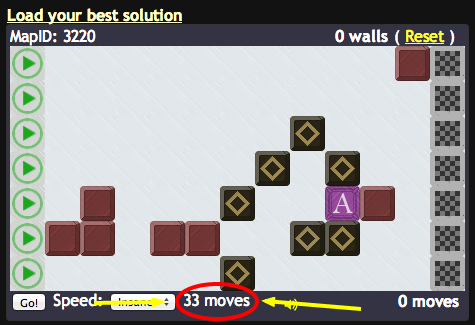
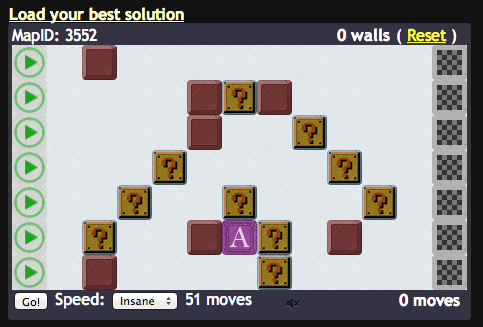
custom block images.  added some default selection

diff --git a/pathery-client-shared.js b/pathery-client-shared.js
@@ -1,3 +1,53 @@
+// CUSTOMIZED BLOCKS
+var user_id;
+var id_to_block_image_map = {
+  'www.pathery.com': {
+    835: 'https://raw.github.com/WuTheFWasThat/midnighttherapy/master/images/blocks/pusheen.png', // joy
+    400: 'https://raw.github.com/WuTheFWasThat/midnighttherapy/master/images/blocks/bwlo.png', // wuthefwasthat
+    271: 'http://downloads.khinsider.com/wallpaper/1280x1024/1058-everquest-002-gywvt.jpg' // yeuo
+  }
+}
+
+function get_custom_block_image() {
+  if ((document.domain in id_to_block_image_map) && (user_id in id_to_block_image_map[document.domain])) {
+    return id_to_block_image_map[document.domain][user_id];
+  }
+  return 'https://raw.github.com/WuTheFWasThat/midnighttherapy/master/images/blocks/mario_block.png'; // wuthefwasthat
+  return null;
+}
+
+var __old_grick_click__ = grid_click;
+var grid_click = function() { 
+  var custom_image = get_custom_block_image();
+  if (custom_image) {wallEmblem = custom_image;}
+  var old_linkEmblem = linkEmblem;
+  if (custom_image) {
+    linkEmblem = function() {return wallEmblem;}
+  }
+  __old_grick_click__.apply(this, arguments);
+  if (custom_image) {linkEmblem = old_linkEmblem;}
+}
+
+$(document).ready(function() {
+  $('#topbarContent a').each(function(x, y) {
+    var link = $(y); 
+    if (link.text() == 'Achievements') {
+      user_id = parseInt(link.attr('href').split('=')[1])
+    }
+  })
+  function update_block_images() {
+    var custom_image = get_custom_block_image();
+    if (custom_image) {
+      $('.playable > div').each(function(x, y) {
+        if (this.cv) {$(this).css('background-image', "url(" + custom_image + ")")};
+      })
+    }
+  }
+  update_block_images();
+});
+
+// END CUSTOMIZED BLOCKS
+
 // TODO:  DO NOT UNCOMMENT THIS LINE
 // $(document).on('click', function() {$('.map.playable .o').css('background-image', 'url(http://24.media.tumblr.com/tumblr_lg3ynmrMvc1qcpyl1o1_400.gif)')})
 
@@ -521,7 +571,9 @@ loadScripts([
   
   var hotkeys_text = 
     // TODO:
-    //'x: place'     + '<br/>' +
+    //'x: place'     + '<br/>' +var 
+    //'w: Place wall'     + '<br/>' +var 
+    //'e: Erase wall'     + '<br/>' +var 
     '1-5: Switch maps' + '<br/>' + 
     's:   Save'           + '<br/>' +
     'l:   Load'           + '<br/>' +
@@ -536,6 +588,7 @@ loadScripts([
     showStats(map_num);
     refresh_all();
   }
+  // 'x' : use mouseover, mouseout events
 
   var hotkey_handler = {
     '1' : function(e) {switch_map(1)},
@@ -553,7 +606,7 @@ loadScripts([
       clearwalls(exports.mapid); 
     },
     'S' : function(e) {
-      save_current_solution();
+      exports.save_current_solution();
     },
     'L' : function(e) {
       var old_solution = exports.get_current_solution();
@@ -596,7 +649,7 @@ loadScripts([
   ////////////////////////////////////////////
   
   $(document).ready(function() {
-
+    
     $(window).click(function() {
       refresh_score();
       setTimeout(function() {
@@ -605,6 +658,8 @@ loadScripts([
       }, 100);
     });
     exports.get_current_mapid();
+
+
   
     $('#difficulties').parent().css('margin-left', '300px');
   

diff --git a/pathery-server-shared.js b/pathery-server-shared.js
@@ -239,14 +239,12 @@ function Graph(board) {
   this.extra_block = '?'; // dummy variable, initially
 
   this.get_neighbors = function(blocks, u) {
-    var val;
     var neighbors = [];
     var potential_neighbors = this.neighbors[u];
-    var potential_neighbor;
     for (var i = 0; i < potential_neighbors.length; i++) {
-      potential_neighbor = potential_neighbors[i];
-      val = this.serial_board[potential_neighbor];
-      if (val == this.extra_block) {continue;}
+      var potential_neighbor = potential_neighbors[i];
+      var val = this.serial_board[potential_neighbor];
+      if (val === this.extra_block) {continue;}
       if (blocks[potential_neighbor]) {continue;}
       neighbors.push(potential_neighbor);
     }

diff --git a/README.md b/README.md
@@ -36,7 +36,8 @@ However, this may feel laggy if you're letting the browser do the computation.
 
 It's often frustrating that you can only load your best solution, on maps with many viable but different placings. 
 Ultra Complex is especially bad - it's devastating when I'm working on a new idea, and I accidentally load my best solution.  
-Thus I added the ability to save and load solutions.  Simply enter a name, and press Save, to save the current solution.
+Thus I added the ability to save and load solutions.  Simply enter a name, and press Save (hotkey S), to save the current solution.
+If you don't enter a name, your solution is automatically named based on your score.
 You'll then see the name appear in a list, where you can Load or Delete it.
 
 ![save solutions](images/save-solutions.png)
@@ -59,6 +60,10 @@ I provide a number of hotkeys to make playing easier and faster:
 | v             | Toggle values       |
 | z             | Undo                |
 | y             | Redo                |
+
+### CUSTOM BLOCK IMAGES ###
+
+As you might have noticed, you can customize your block images.  Just tell me your Pathery user id and an image!
 
 ## INSTRUCTIONS ##
 
